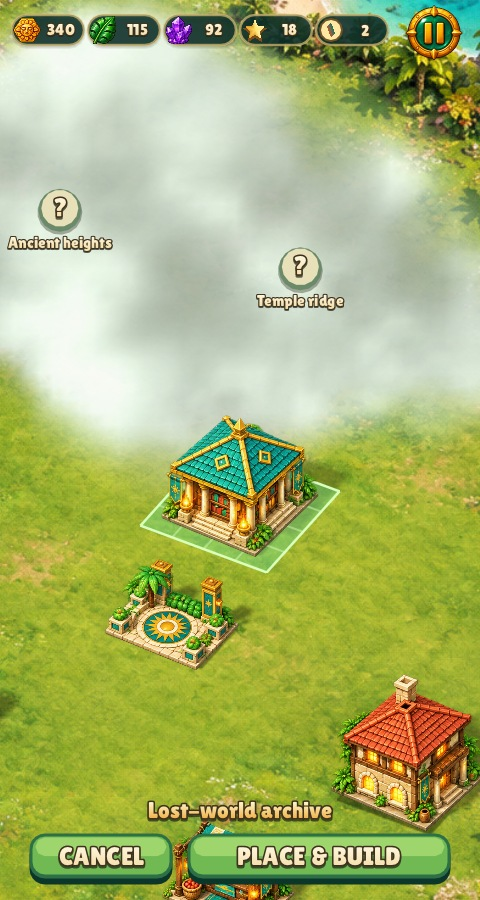
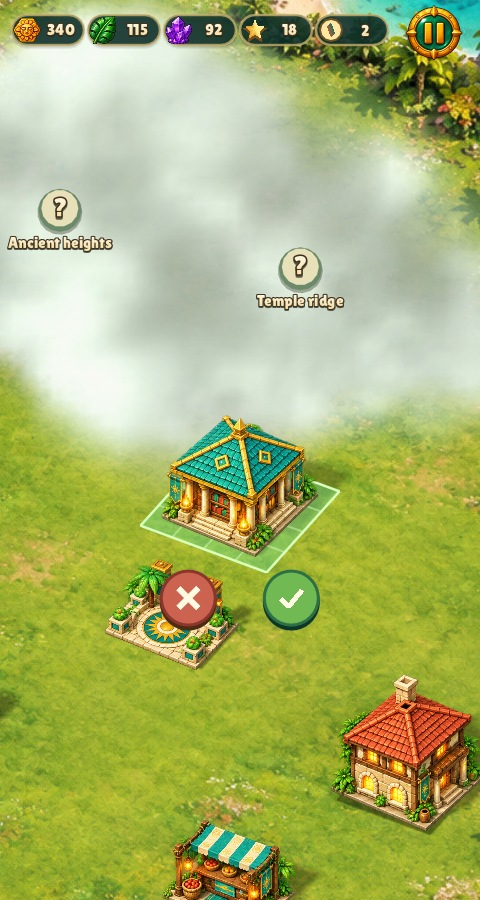
Refresh painted placement review after rebasing updated controls

Changed region(s): [[0.0625, 0.8711, 0.9375, 0.9956], [0.5312, 0.6222, 0.6875, 0.7156], [0.3125, 0.6222, 0.4688, 0.7156]]

diff --git a/games/relic-rush/docs/review/painted-buildings/current-camera/README.md b/games/relic-rush/docs/review/painted-buildings/current-camera/README.md
@@ -27,6 +27,15 @@ footprint placement and unwanted generation flecks. Crop-only component bounds
 exclude distant flecks; RGB and alpha inside each crop are preserved. Normal
 sprites are authored; the engine still supplies lift/placement/validity effects.
 
+## Placement after rebasing onto the updated controls
+
+The current red cancel and jade confirm controls from `93c805b` are preserved.
+These captures check the repainted sprites with those controls at both phone sizes.
+
+| 480×900 | 390×844 | Blocked preview |
+| --- | --- | --- |
+| ![Placement](after-island-placement.jpg) | ![Phone placement](after-phone-island-placement.jpg) | ![Blocked placement](after-island-blocked.jpg) |
+
 ## Every catalogue page
 
 ![after-building-review-1](after-building-review-1.jpg)
